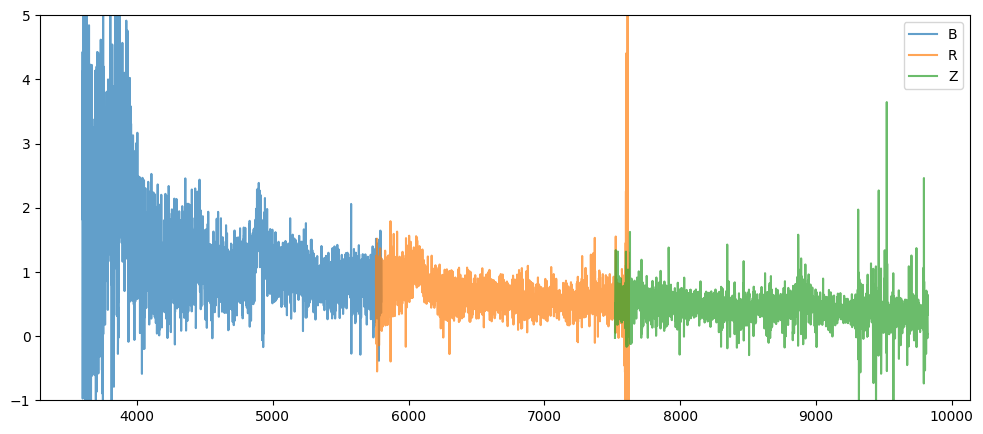
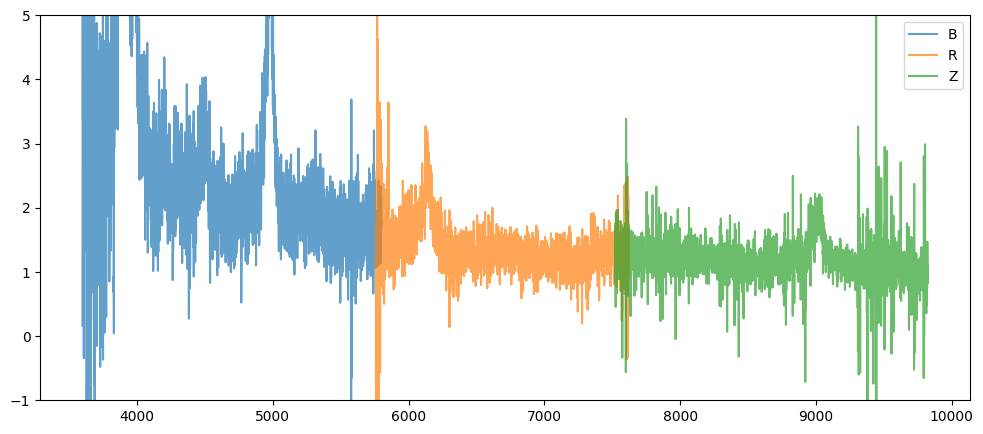
update numbers with edr outputs

Changed region(s): [[0.061, 0.03, 0.9461, 0.9286]]

diff --git a/docs/source/examples/simple_coadd_showcase.rst b/docs/source/examples/simple_coadd_showcase.rst
@@ -38,7 +38,7 @@ reading all the quasar spectra in that file.
     split_catalog = np.split(catalog, s[1:])
 
     # Pick one healpix to illustrate
-    hpx_cat = split_catalog[0]
+    hpx_cat = split_catalog[1]
     healpix = hpx_cat['HPXPIXEL'][0]
 
     spectra_by_hpx = readerFunction(hpx_cat)
@@ -48,7 +48,7 @@ reading all the quasar spectra in that file.
 
 .. parsed-literal::
 
-    There are 207 spectra in healpix 0.
+    There are 71 spectra in healpix 9145.
 
 
 Let’s investigate one spectrum. Wavelength, flux and inverse variance
@@ -57,7 +57,7 @@ are stored as dictionaries similar to
 
 .. code:: python3
 
-    spec = spectra_by_hpx[0]
+    spec = spectra_by_hpx[3]
     print(spec.wave)
     print(spec.flux)
 
@@ -67,12 +67,12 @@ are stored as dictionaries similar to
     {'B': array([3600. , 3600.8, 3601.6, ..., 5798.4, 5799.2, 5800. ]),
      'R': array([5760. , 5760.8, 5761.6, ..., 7618.4, 7619.2, 7620. ]),
      'Z': array([7520. , 7520.8, 7521.6, ..., 9822.4, 9823.2, 9824. ])}
-    {'B': array([ 2.8399339 ,  5.5985265 ,  1.6996089 , ..., -0.02623173,
-            0.12586579,  0.17652267], dtype=float32),
-     'R': array([ 0.59253263, -4.5705295 ,  0.7594522 , ...,  2.133106  ,
-            0.19382767, -0.8677871 ], dtype=float32),
-     'Z': array([0.5383575 , 0.4969392 , 0.83893967, ..., 0.44942966, 0.642498  ,
-           0.68266016], dtype=float32)}
+    {'B': array([0.16013083, 2.1076498 , 6.495008  , ..., 2.2043223 , 1.6862453 ,
+        1.8163666 ], dtype=float32),
+     'R': array([-1.287594  ,  1.731283  ,  0.62619126, ...,  0.9037217 ,
+        1.3648763 ,  1.652868  ], dtype=float32),
+     'Z': array([0.83304965, 1.031328  , 1.6591258 , ..., 0.81355166, 1.0301682 ,
+        1.0923132 ], dtype=float32)}
 
 
 .. code:: python3
@@ -103,8 +103,8 @@ matter which arms are used to coadd.
 .. parsed-literal::
 
     {'brz': array([3600. , 3600.8, 3601.6, ..., 9822.4, 9823.2, 9824. ])}
-    {'brz': array([ 1.82258034,  4.42979435, -0.97420972, ...,  0.48654886,
-            0.54619423,  0.3381963 ])}
+    {'brz': array([0.16013082, 2.10764978, 6.49500805, ..., 0.81355166, 1.03016822,
+        1.0923132 ])}
 
 
 .. code:: python3
